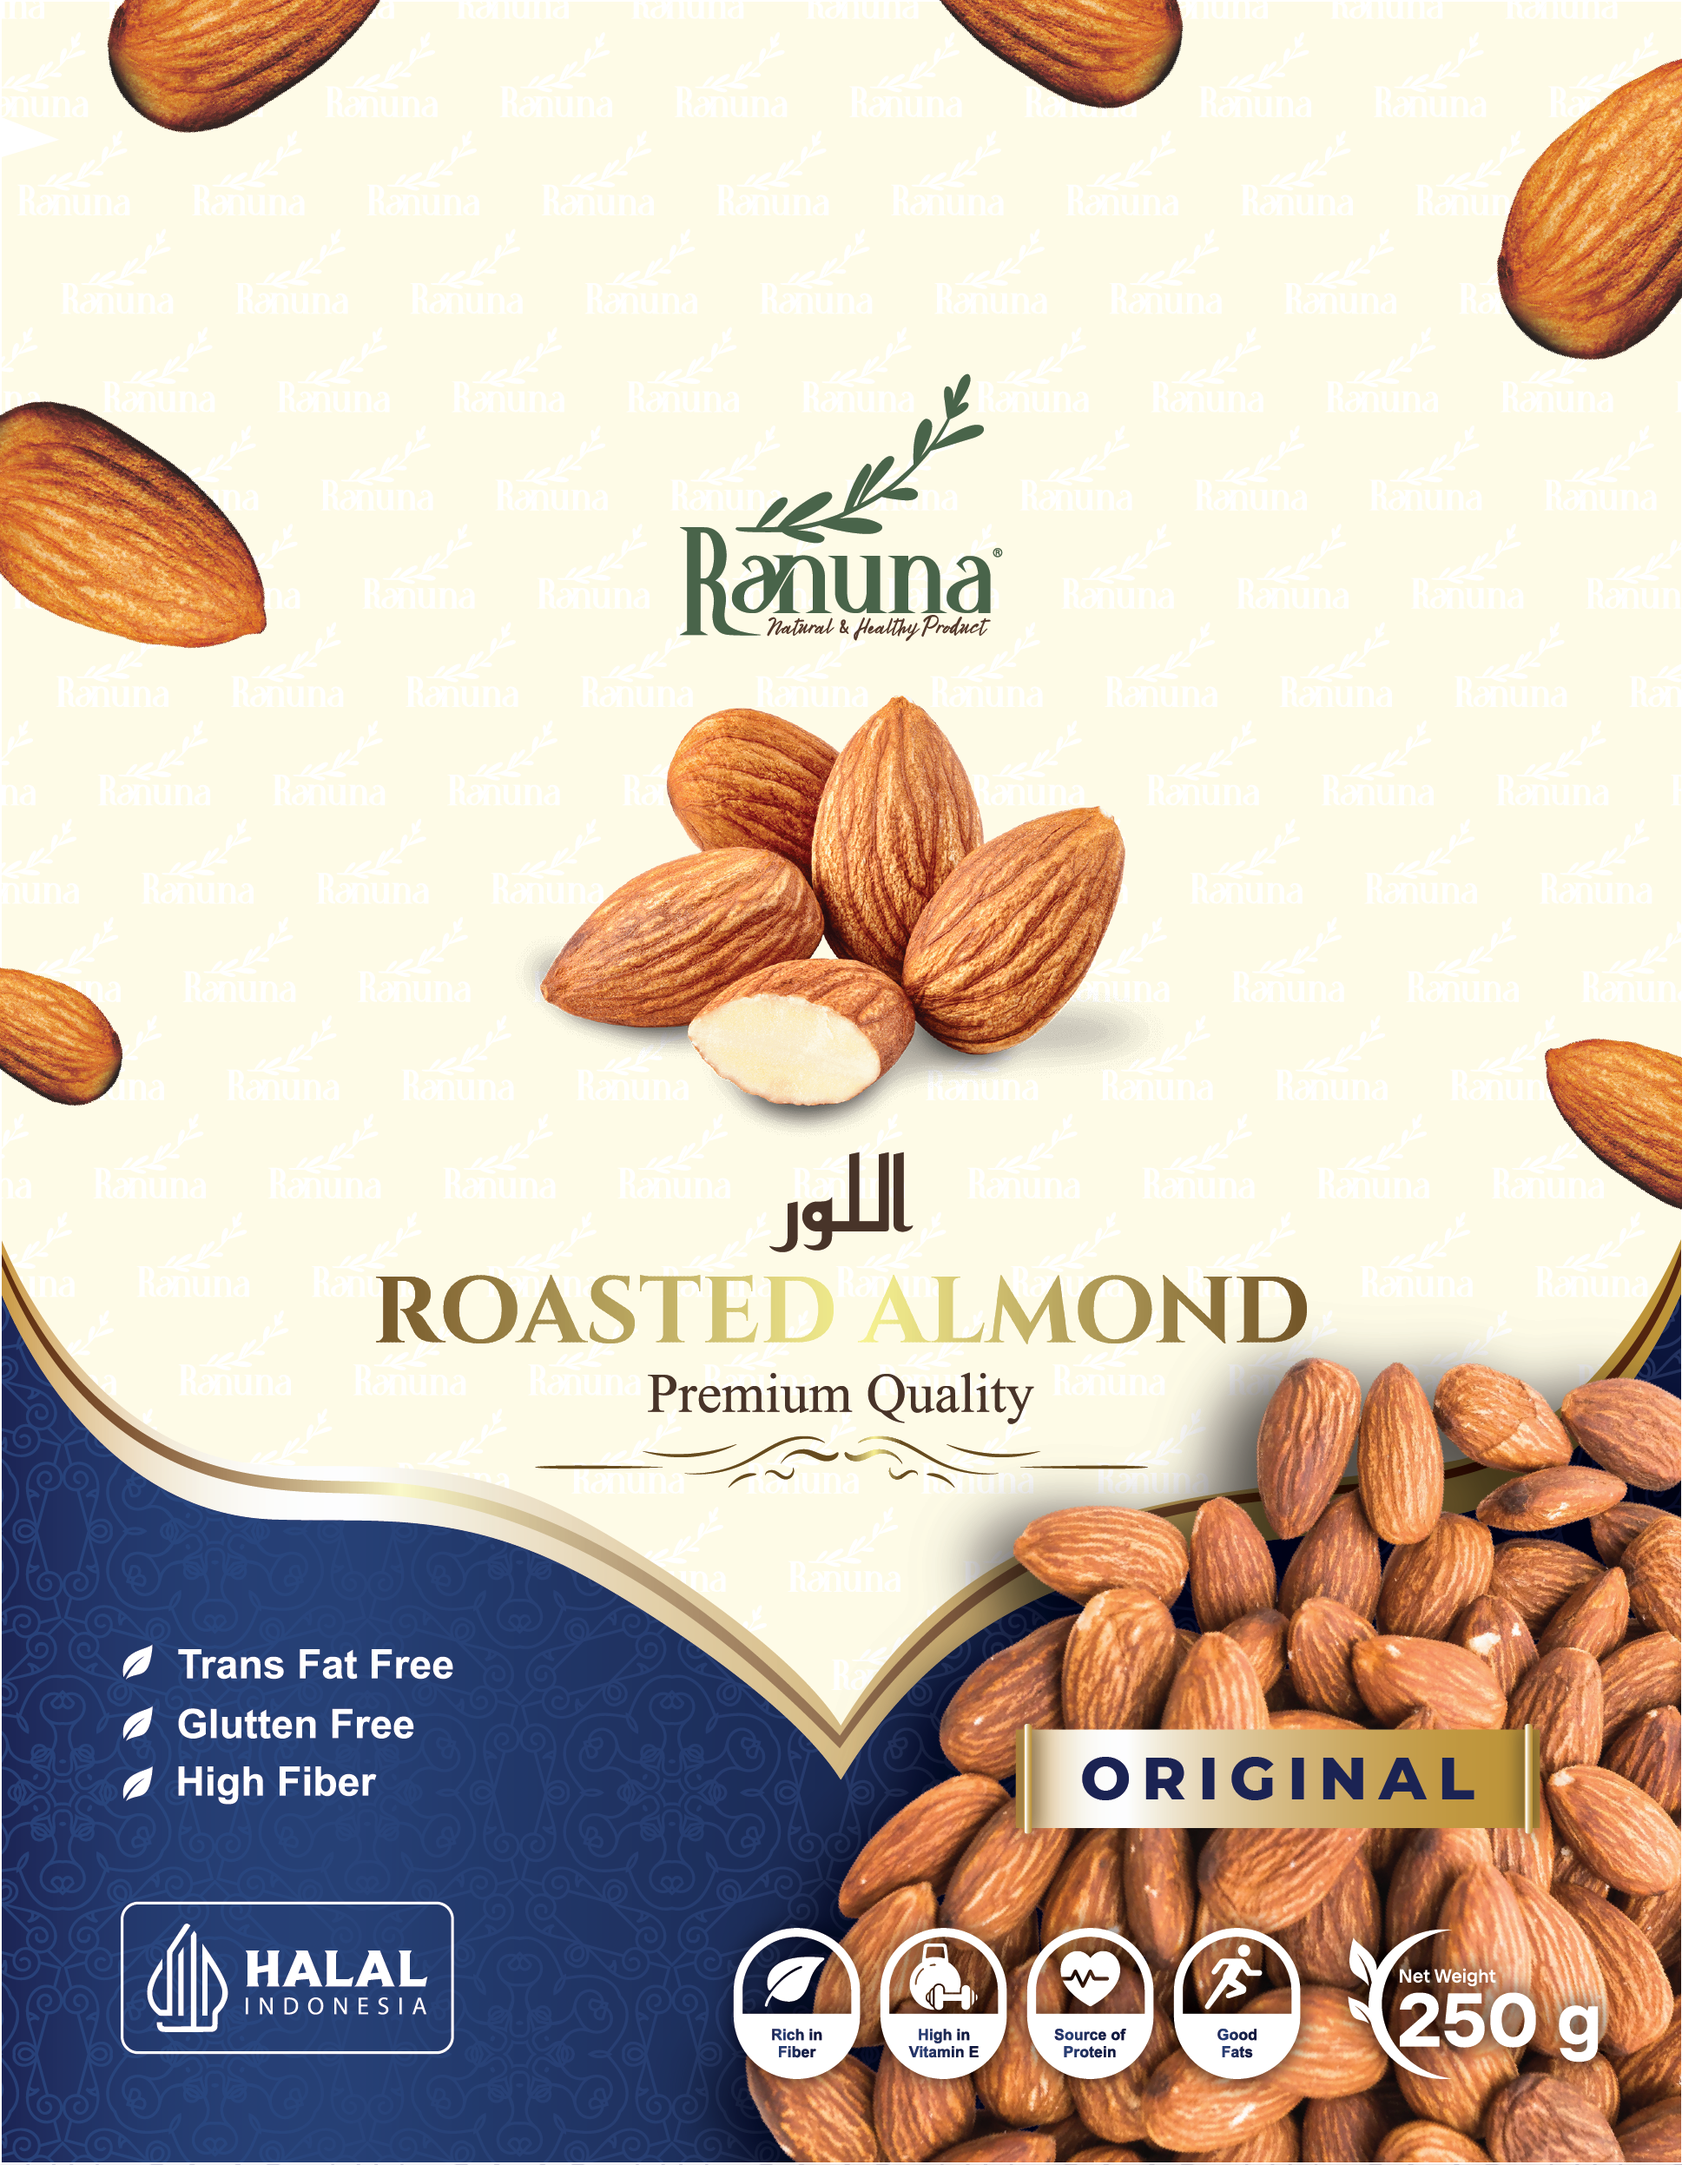
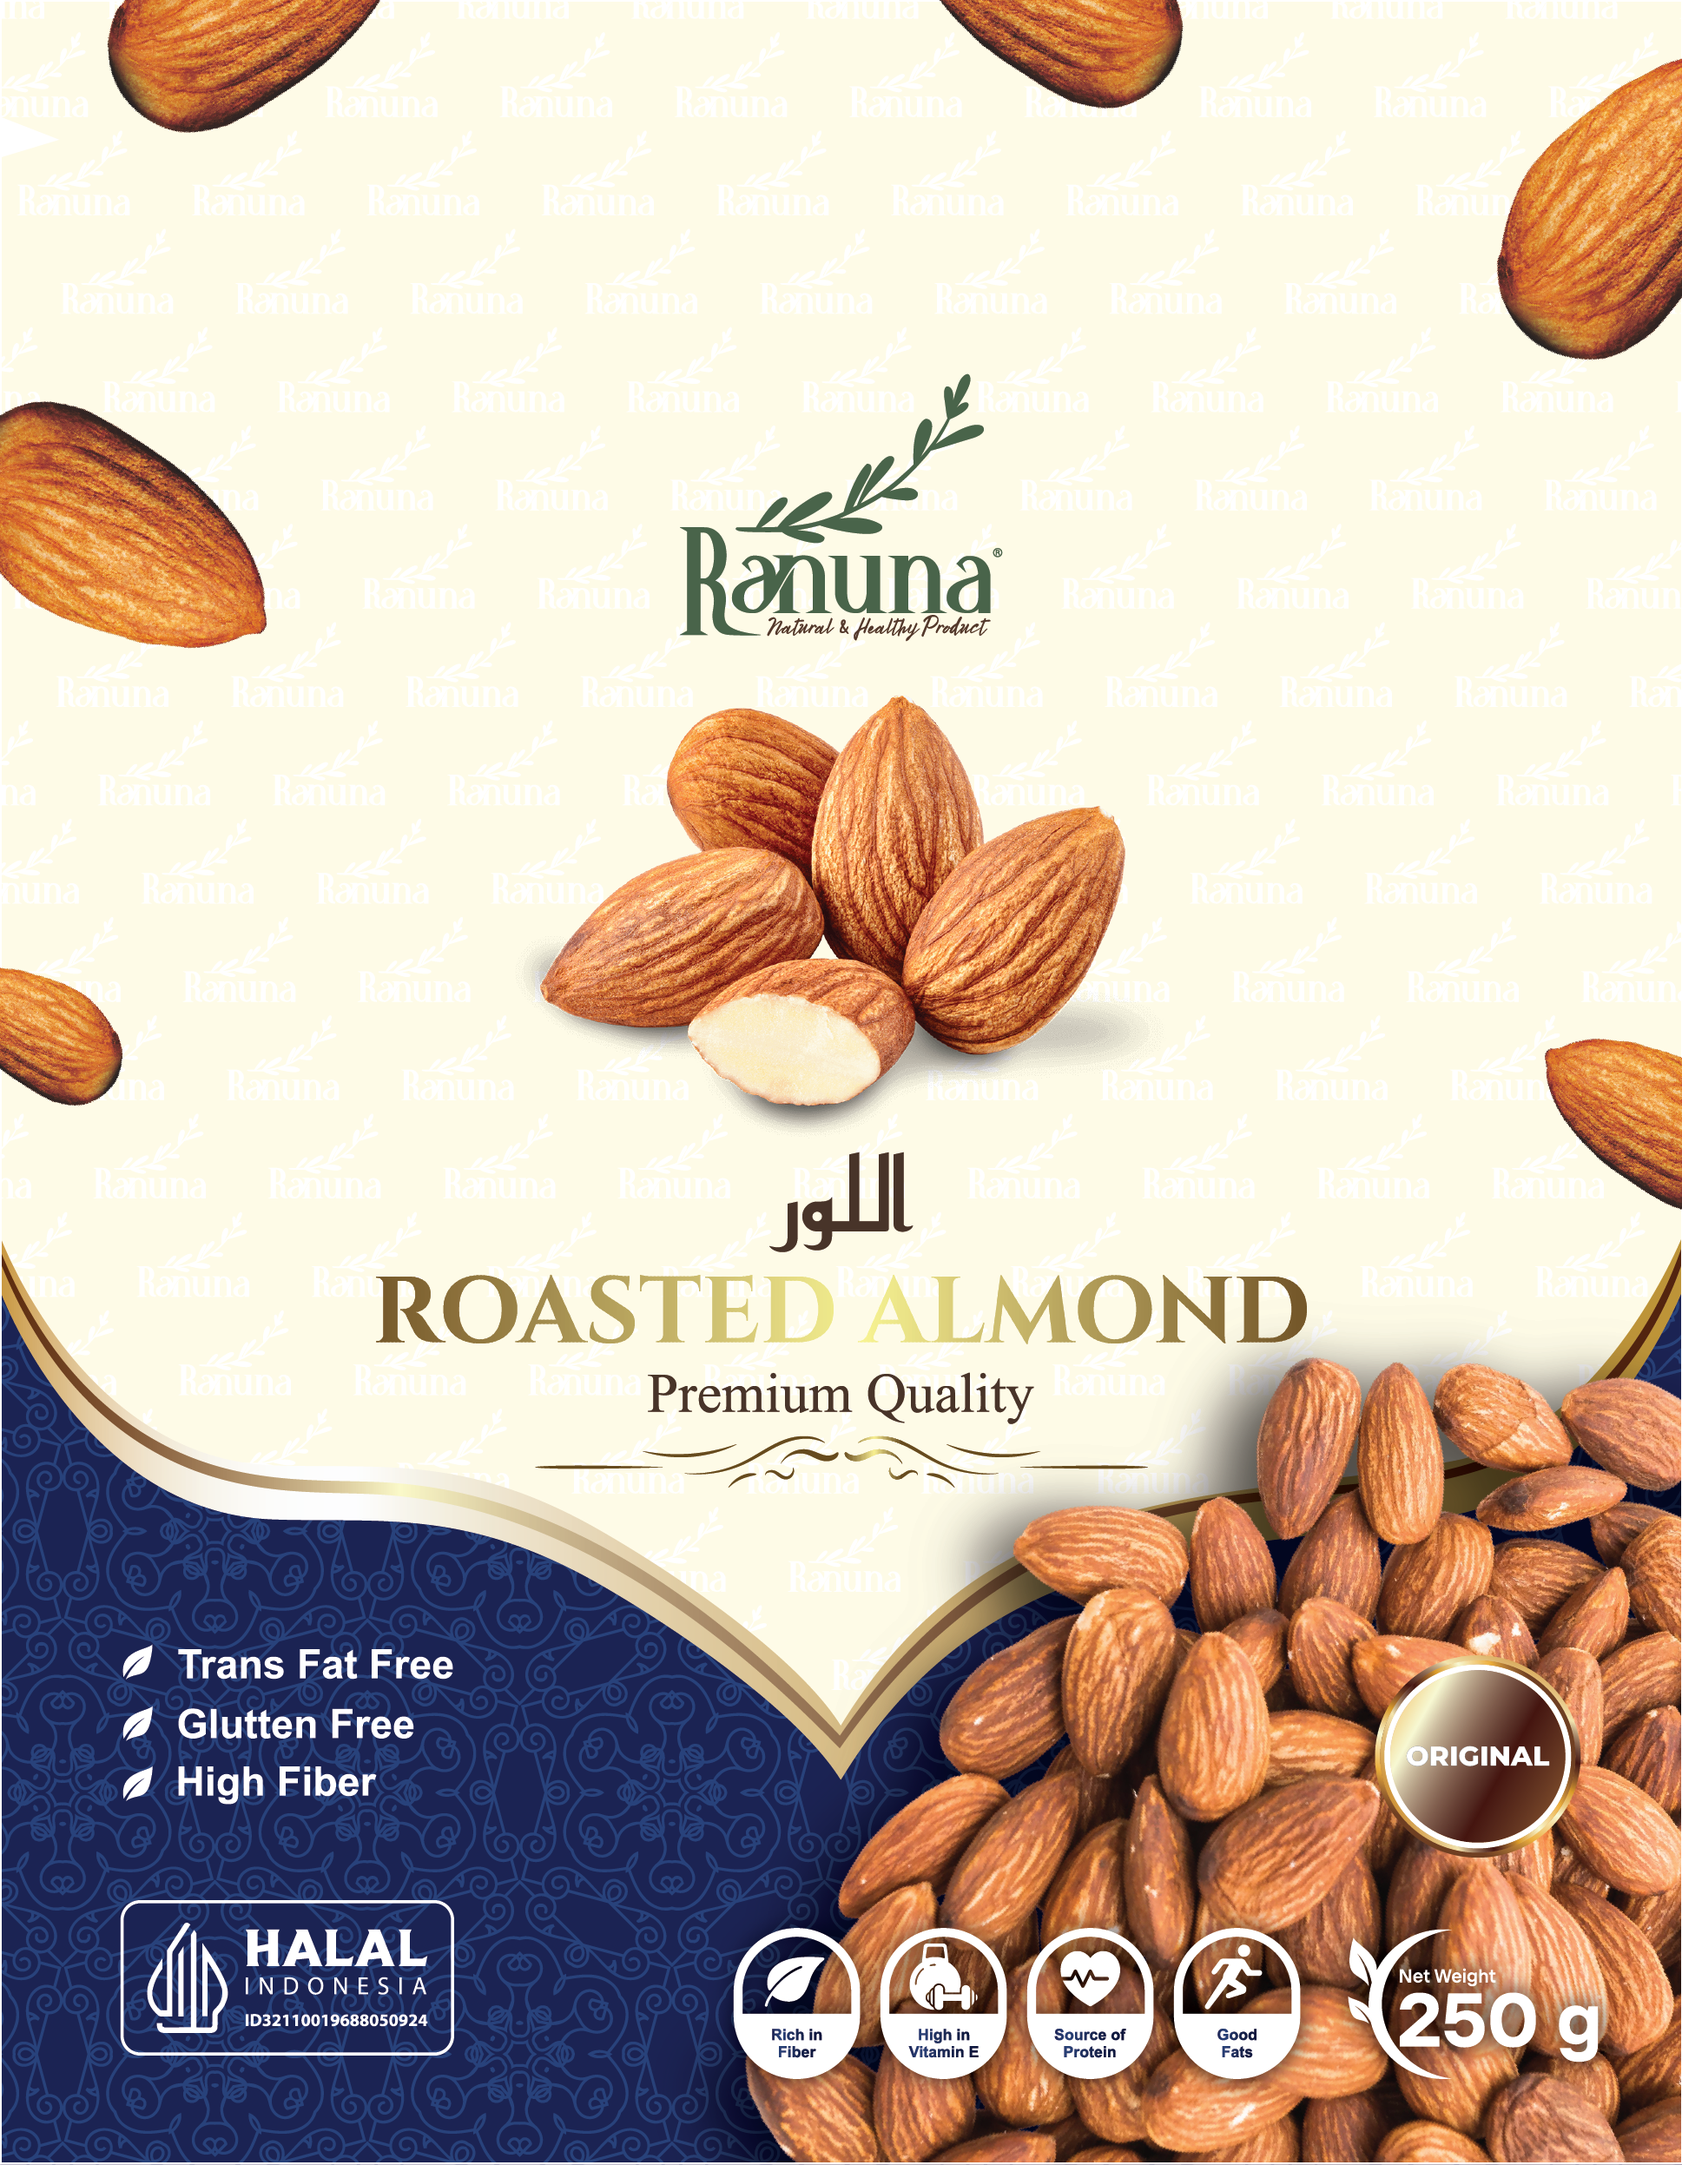
Update mockup almond, add 'Unduh File Cetak' button to all product pages, and update styles

Changed region(s): [[0.062, 0.6795, 0.3098, 1.0], [0.5885, 0.7413, 0.9602, 0.8648], [0.9912, 0.6177, 1.0, 0.6486]]

diff --git a/roasted-almond.html b/roasted-almond.html
@@ -20,10 +20,11 @@
         <div class="page-title-wrapper">
             <h2 class="page-title">Roasted Almond</h2>
             <div class="page-divider"></div>
+            <a href="https://drive.google.com/drive/folders/1UnBCWKYsKBxjyerLS2sAT0NZEykQ9to8?usp=drive_link" class="download-btn" target="_blank" rel="noopener noreferrer">Unduh File Cetak</a>
         </div>
 
         <div class="gallery-grid">
-            <div class="gallery-item"><img src="design/Mockup almond.png" alt="Mockup Roasted Almond"></div>
+            <div class="gallery-item"><img src="design/Mockup almond new.png" alt="Mockup Roasted Almond"></div>
             <div class="gallery-item"><img src="design/Roasted Almond 250gr-500gr pouch Original Finall-01.png" alt="Roasted Almond 1"></div>
             <div class="gallery-item"><img src="design/Roasted Almond 250gr-500gr pouch Original Finall-02.png" alt="Roasted Almond 2"></div>
             <div class="gallery-item"><img src="design/Roasted Almond 250gr-500gr pouch Original Finall-03.png" alt="Roasted Almond 3"></div>

diff --git a/style.css b/style.css
@@ -98,6 +98,31 @@ main {
     margin: 0 auto;
 }
 
+/* Download Print File Button */
+.download-btn {
+    display: inline-block;
+    margin-top: 2rem;
+    padding: 0.8rem 2.5rem;
+    background-color: var(--accent-gold);
+    color: var(--primary-black);
+    text-transform: uppercase;
+    letter-spacing: 2px;
+    font-size: 0.9rem;
+    font-weight: 500;
+    text-decoration: none;
+    border-radius: 4px;
+    transition: var(--transition-smooth);
+    border: 1px solid var(--accent-gold);
+    font-family: 'Outfit', sans-serif;
+}
+
+.download-btn:hover {
+    background-color: transparent;
+    color: var(--accent-gold);
+    box-shadow: 0 5px 15px rgba(212, 175, 55, 0.2);
+    transform: translateY(-2px);
+}
+
 /* Bento/Masonry Grid for Home Page */
 .bento-grid {
     display: flex;

diff --git a/black-raisins.html b/black-raisins.html
@@ -20,6 +20,7 @@
         <div class="page-title-wrapper">
             <h2 class="page-title">Black Raisins</h2>
             <div class="page-divider"></div>
+            <a href="https://drive.google.com/drive/folders/1UnBCWKYsKBxjyerLS2sAT0NZEykQ9to8?usp=drive_link" class="download-btn" target="_blank" rel="noopener noreferrer">Unduh File Cetak</a>
         </div>
 
         <div class="gallery-grid">

diff --git a/gold-raisins.html b/gold-raisins.html
@@ -20,6 +20,7 @@
         <div class="page-title-wrapper">
             <h2 class="page-title">Gold Raisins</h2>
             <div class="page-divider"></div>
+            <a href="https://drive.google.com/drive/folders/1UnBCWKYsKBxjyerLS2sAT0NZEykQ9to8?usp=drive_link" class="download-btn" target="_blank" rel="noopener noreferrer">Unduh File Cetak</a>
         </div>
 
         <div class="gallery-grid">

diff --git a/chia-seed.html b/chia-seed.html
@@ -20,6 +20,7 @@
         <div class="page-title-wrapper">
             <h2 class="page-title">Chia Seed</h2>
             <div class="page-divider"></div>
+            <a href="https://drive.google.com/drive/folders/1UnBCWKYsKBxjyerLS2sAT0NZEykQ9to8?usp=drive_link" class="download-btn" target="_blank" rel="noopener noreferrer">Unduh File Cetak</a>
         </div>
 
         <div class="gallery-grid">

diff --git a/macadamia.html b/macadamia.html
@@ -20,6 +20,7 @@
         <div class="page-title-wrapper">
             <h2 class="page-title">Macadamia</h2>
             <div class="page-divider"></div>
+            <a href="https://drive.google.com/drive/folders/1UnBCWKYsKBxjyerLS2sAT0NZEykQ9to8?usp=drive_link" class="download-btn" target="_blank" rel="noopener noreferrer">Unduh File Cetak</a>
         </div>
 
         <div class="gallery-grid">

diff --git a/pistachio.html b/pistachio.html
@@ -20,6 +20,7 @@
         <div class="page-title-wrapper">
             <h2 class="page-title">Pistachio</h2>
             <div class="page-divider"></div>
+            <a href="https://drive.google.com/drive/folders/1UnBCWKYsKBxjyerLS2sAT0NZEykQ9to8?usp=drive_link" class="download-btn" target="_blank" rel="noopener noreferrer">Unduh File Cetak</a>
         </div>
 
         <div class="gallery-grid">

diff --git a/cashew.html b/cashew.html
@@ -20,6 +20,7 @@
         <div class="page-title-wrapper">
             <h2 class="page-title">Cashew</h2>
             <div class="page-divider"></div>
+            <a href="https://drive.google.com/drive/folders/1UnBCWKYsKBxjyerLS2sAT0NZEykQ9to8?usp=drive_link" class="download-btn" target="_blank" rel="noopener noreferrer">Unduh File Cetak</a>
         </div>
 
         <div class="gallery-grid">
